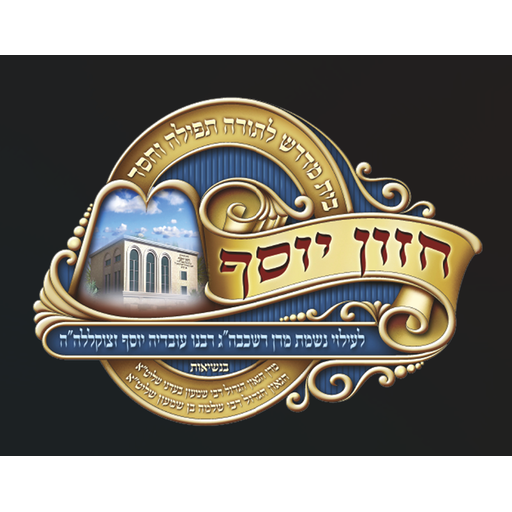
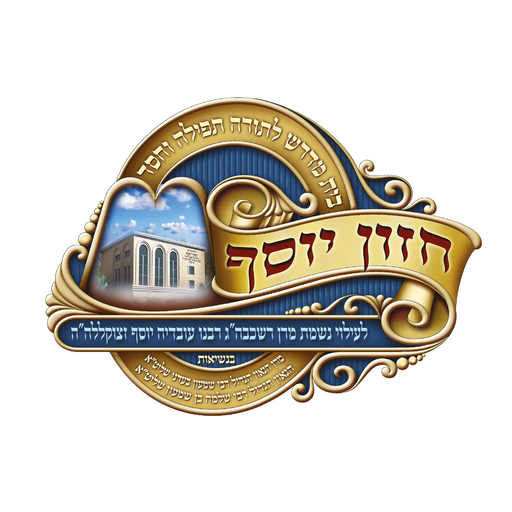
עדכון כל אייקוני האפליקציה ללוגו ללא רקע

diff --git a/generate-app-icons.js b/generate-app-icons.js
@@ -19,11 +19,11 @@ const sizes = [
 ];
 
 async function generateIcons() {
-  const inputPath = path.join(__dirname, 'public', 'AppLogo.png');
+  const inputPath = path.join(__dirname, 'public', 'AppLogoBgRemove.png');
   const outputDir = path.join(__dirname, 'public');
 
   try {
-    console.log('🎨 מתחיל ליצור אייקונים מ-AppLogo.png...\n');
+    console.log('🎨 מתחיל ליצור אייקונים מ-AppLogoBgRemove.png...\n');
 
     // Check if input file exists
     await fs.access(inputPath);
@@ -35,8 +35,9 @@ async function generateIcons() {
       await sharp(inputPath)
         .resize(size, size, {
           fit: 'contain',
-          background: { r: 0, g: 0, b: 0, alpha: 0 }
+          background: { r: 255, g: 255, b: 255, alpha: 1 }
         })
+        .flatten({ background: { r: 255, g: 255, b: 255 } })
         .png()
         .toFile(outputPath);
       
